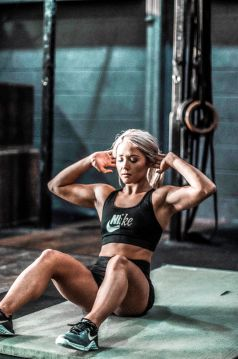
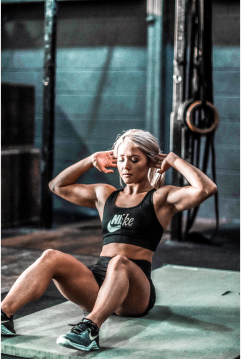
15

diff --git a/styles/about.css b/styles/about.css
@@ -31,12 +31,13 @@
 
 .about__female_situps {
     position: absolute;
-  /*  background-image: url('./images/female_doing_situps.jpg');*/
+    background-image: url('images/female_doing_situps.jpg');
     background-repeat: no-repeat;
     width: 241px;
     height: 359px;
     top: 144px;
     left: 199px;
+    background-position: top 0px left -3px;
 }
 
 .about__info {
@@ -74,14 +75,15 @@
 
     .about__photos {
         width: 262px;
-        height: 313px;  
+        height: 313px; 
+        margin-bottom: 20px; 
     }
 
     .about__male_lifting {
         width: 176px;
         height: 248px;
-      /*  background-position: -50px -70px;*/
-      /*  background-size: 95%;*/
+        background-position: top -10px left -40px;
+        background-size: 130%;
     }
     
     .about__female_situps {
@@ -89,7 +91,8 @@
         height: 218px;
         top: 95px;
         left: 116px;
-       /* background-position: -50px -70px;*/
+        background-position: top -70px left -10px;
+        background-size: 130%;
     }
 
     .about__info {

diff --git a/index.html b/index.html
@@ -235,8 +235,7 @@
                     <div class="about__male_lifting" 
                     style="background-image: url('./images/male_lifting_weights.jpg');">
                 </div>
-                    <div class="about__female_situps" 
-                    style="background-image: url('./images/female_doing_situps.jpg');">
+                    <div class="about__female_situps">
                 </div>
                 </div>
 
